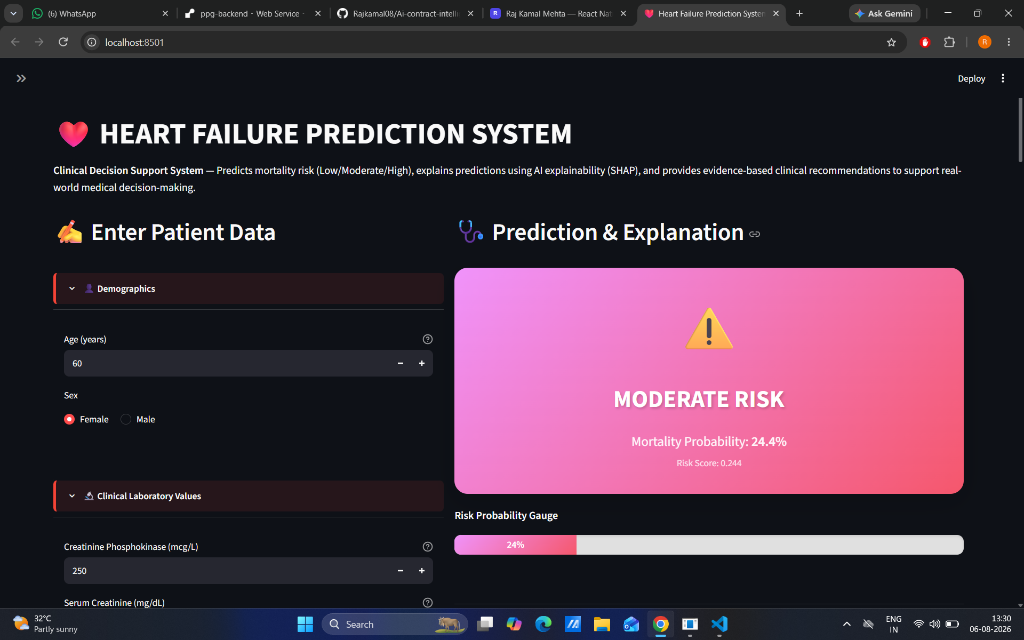
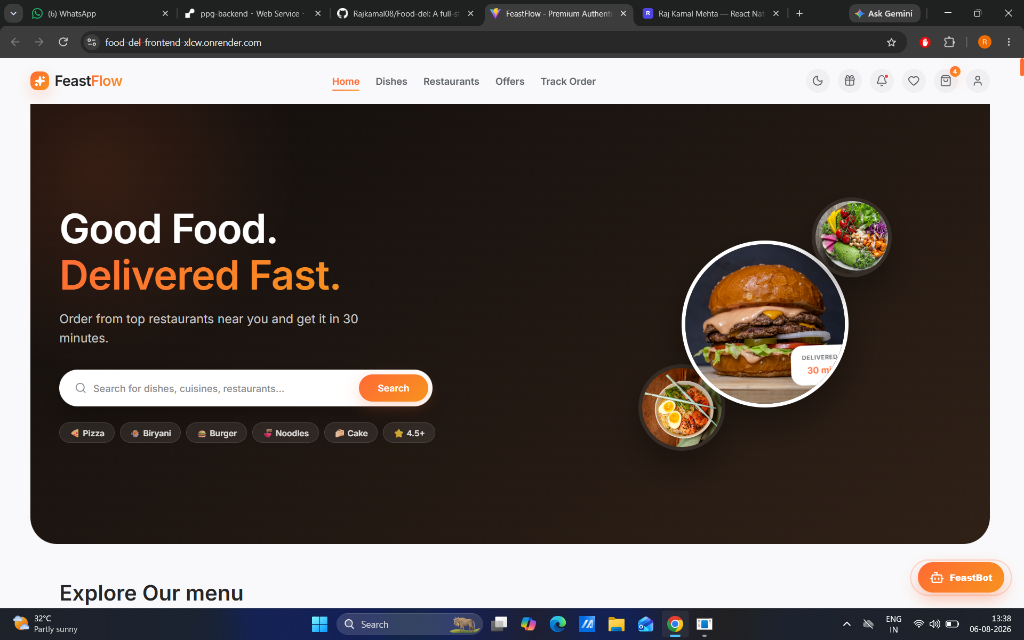
Premium image display: gradient fade edges, shimmer hover, animated color orbs, mask-image blending

diff --git a/src/sections/Projects/Projects.module.css b/src/sections/Projects/Projects.module.css
@@ -36,7 +36,40 @@
   align-items: center;
   justify-content: center;
   overflow: hidden;
+  border-radius: var(--radius-2xl) 0 0 var(--radius-2xl);
+  background: #0a0a0f;
 }
+
+/* Gradient fade edges so image blends in, no screenshot look */
+.projectVisual::after {
+  content: '';
+  position: absolute;
+  inset: 0;
+  background:
+    linear-gradient(to right,  transparent 55%, var(--surface) 100%),
+    linear-gradient(to bottom, var(--surface) 0%, transparent 15% 85%, var(--surface) 100%),
+    linear-gradient(to left,   transparent 85%, var(--surface) 100%);
+  pointer-events: none;
+  z-index: 2;
+}
+
+/* Shimmer sweep animation on hover */
+.projectVisual::before {
+  content: '';
+  position: absolute;
+  inset: 0;
+  background: linear-gradient(105deg, transparent 40%, rgba(255,255,255,0.07) 50%, transparent 60%);
+  background-size: 200% 100%;
+  background-position: -200% 0;
+  z-index: 3;
+  pointer-events: none;
+  transition: background-position 0.8s ease;
+}
+
+.projectCard:hover .projectVisual::before {
+  background-position: 200% 0;
+}
+
 
 .projectGradient {
   position: absolute;
@@ -221,9 +254,51 @@
   width: 100%;
   height: 100%;
   object-fit: cover;
-  transition: transform var(--duration-slow) var(--ease-out);
+  object-position: top center;
+  transform: scale(1.08);
+  transition: transform 0.7s cubic-bezier(0.25, 0.46, 0.45, 0.94);
+  filter: saturate(1.15) brightness(0.92);
+  /* Mask the image to fade out edges — no hard screenshot border */
+  mask-image:
+    linear-gradient(to right,  transparent 0%, black 12% 80%, transparent 100%),
+    linear-gradient(to bottom, transparent 0%, black 10% 90%, transparent 100%);
+  mask-composite: intersect;
+  -webkit-mask-image:
+    linear-gradient(to right,  transparent 0%, black 12% 80%, transparent 100%),
+    linear-gradient(to bottom, transparent 0%, black 10% 90%, transparent 100%);
+  -webkit-mask-composite: source-in;
 }
 
 .projectCard:hover .projectImage {
-  transform: scale(1.05);
+  transform: scale(1.0);
+  filter: saturate(1.3) brightness(1.0);
+}
+
+/* Small card image adjustments */
+.smallCard .projectVisual {
+  min-height: 200px;
+  border-radius: var(--radius-2xl) var(--radius-2xl) 0 0;
+}
+
+.smallCard .projectVisual::after {
+  background:
+    linear-gradient(to bottom, var(--surface) 0%, transparent 20% 70%, var(--surface) 100%),
+    linear-gradient(to right,  transparent 70%, var(--surface) 100%),
+    linear-gradient(to left,   transparent 70%, var(--surface) 100%);
+}
+
+/* Floating animated color orb behind image */
+@keyframes orbPulse {
+  0%, 100% { transform: scale(1);   opacity: 0.15; }
+  50%       { transform: scale(1.2); opacity: 0.25; }
+}
+
+.colorOrb {
+  position: absolute;
+  inset: 0;
+  z-index: 0;
+  animation: orbPulse 4s ease-in-out infinite;
+  border-radius: 50%;
+  filter: blur(60px);
+  pointer-events: none;
 }

diff --git a/src/sections/Projects/Projects.jsx b/src/sections/Projects/Projects.jsx
@@ -27,6 +27,11 @@ function ProjectCard({ project, isFeatured }) {
       >
         {/* Visual / Tagline Area */}
         <div className={styles.projectVisual}>
+          {/* Animated color orb — always rendered for glow effect */}
+          <div
+            className={styles.colorOrb}
+            style={{ background: project.color }}
+          />
           {project.image ? (
             <img src={project.image} alt={project.title} className={styles.projectImage} loading="lazy" />
           ) : (
